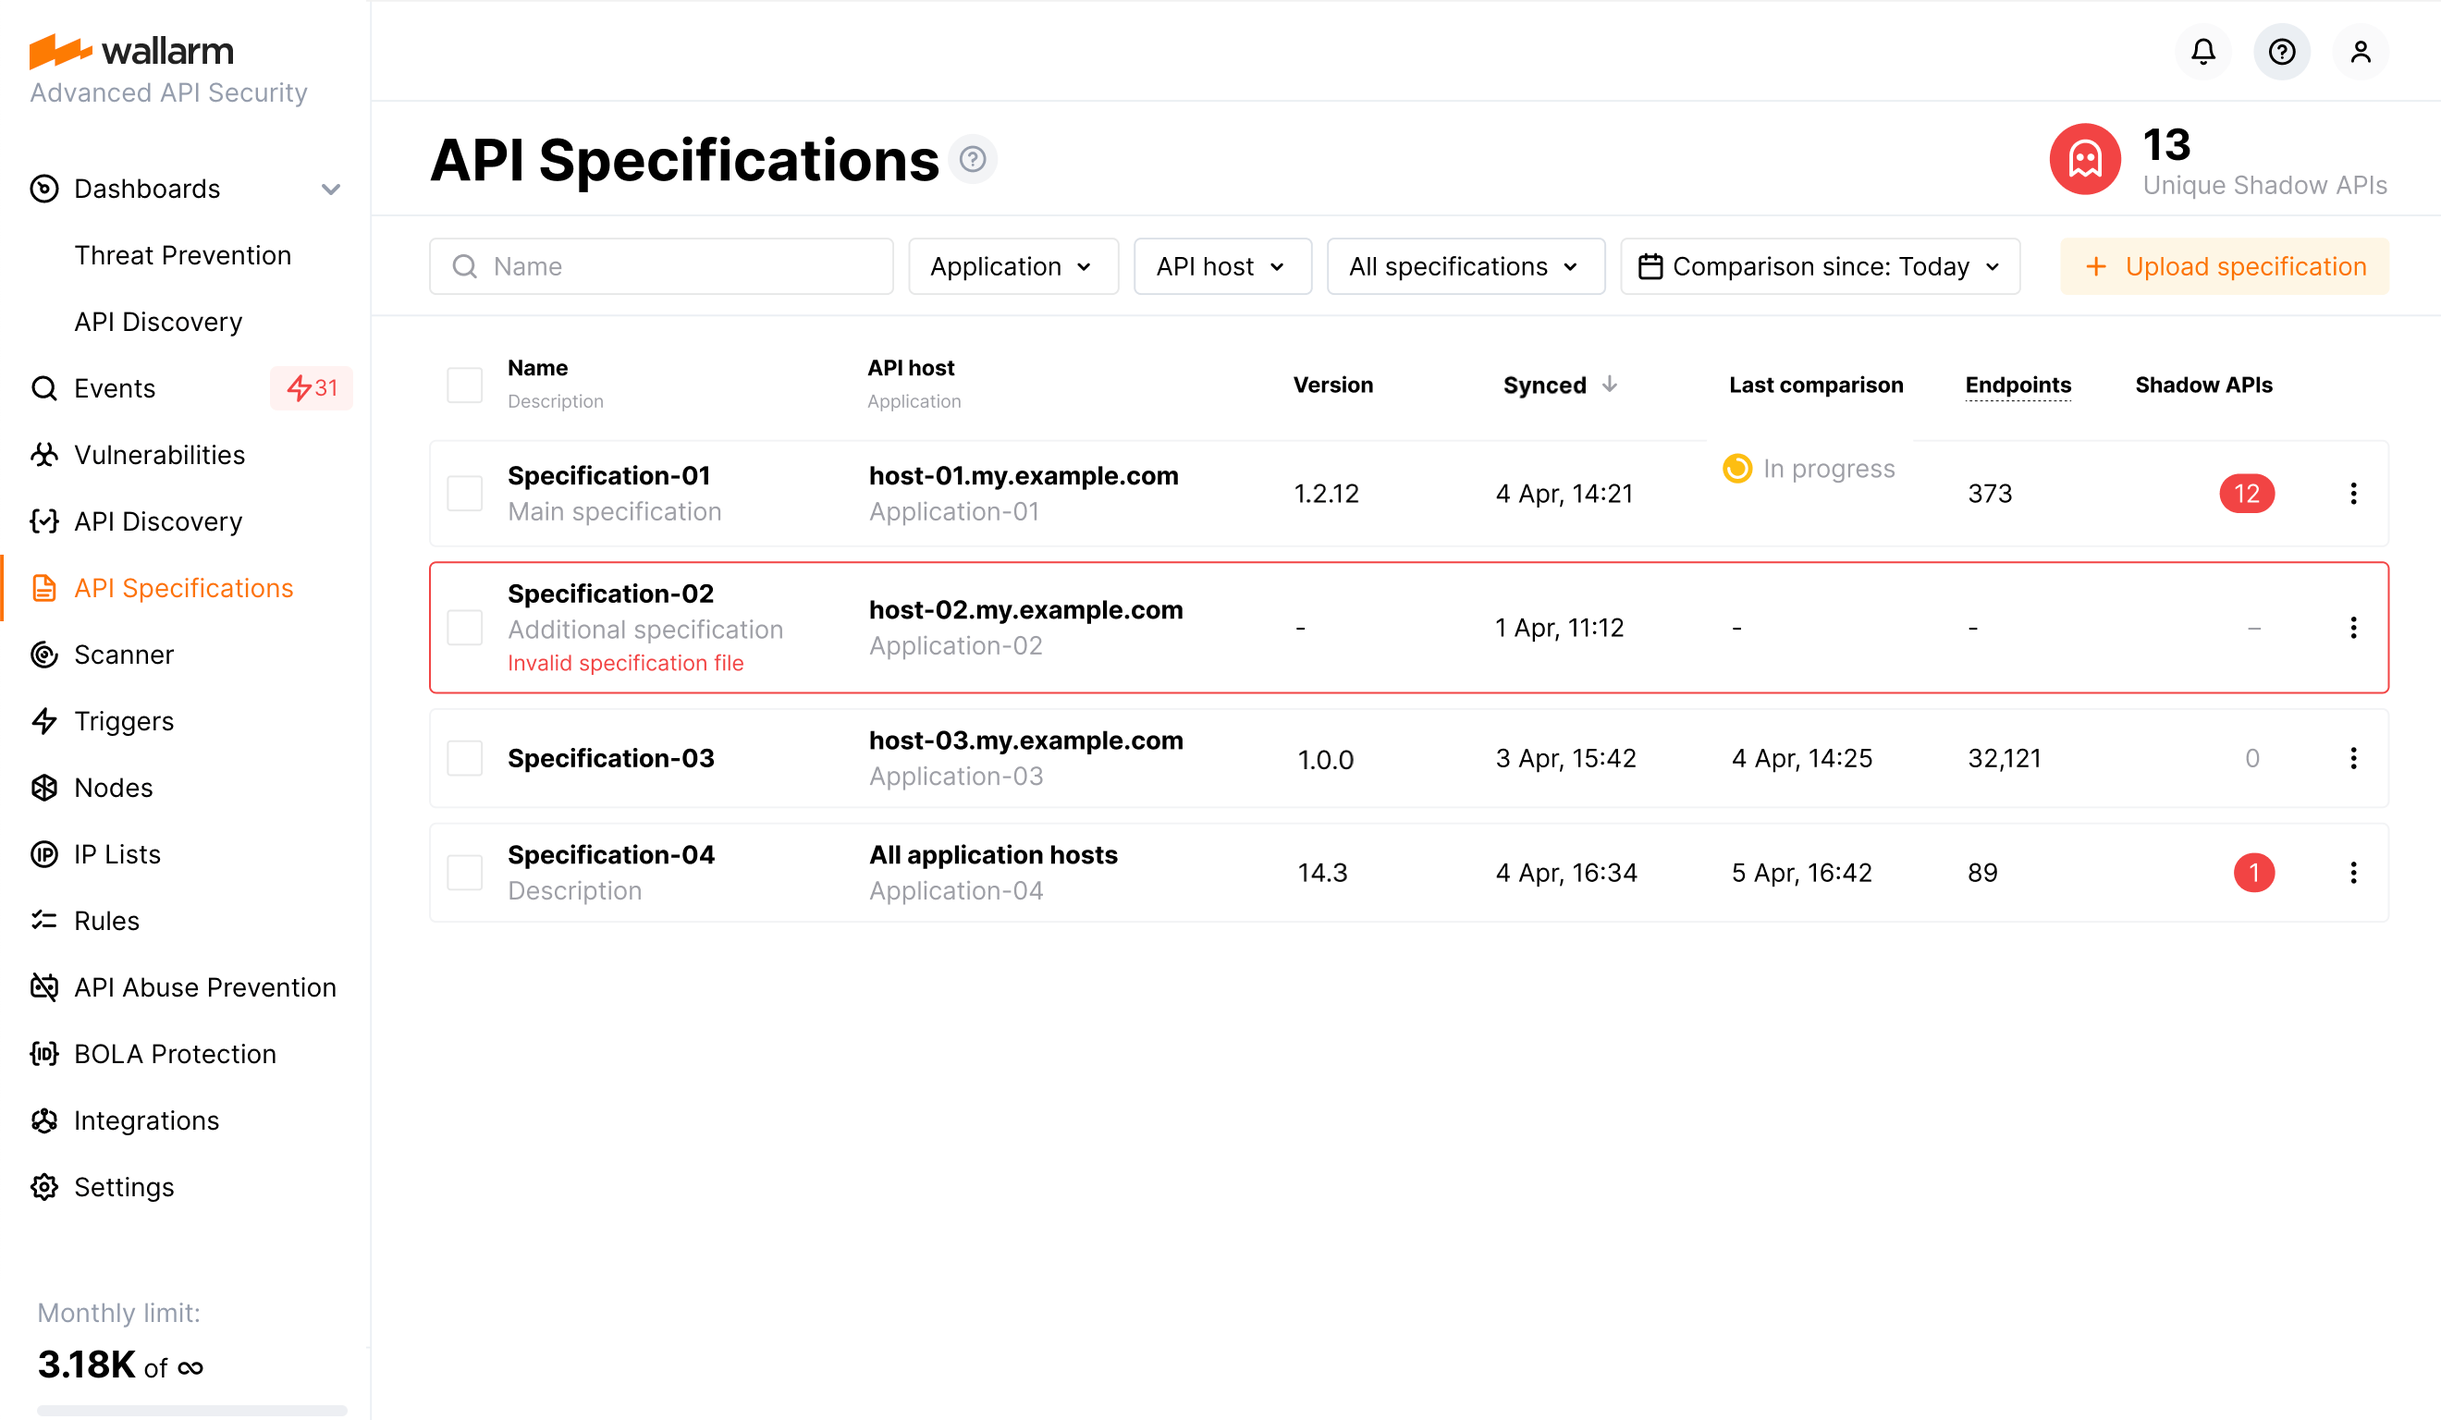
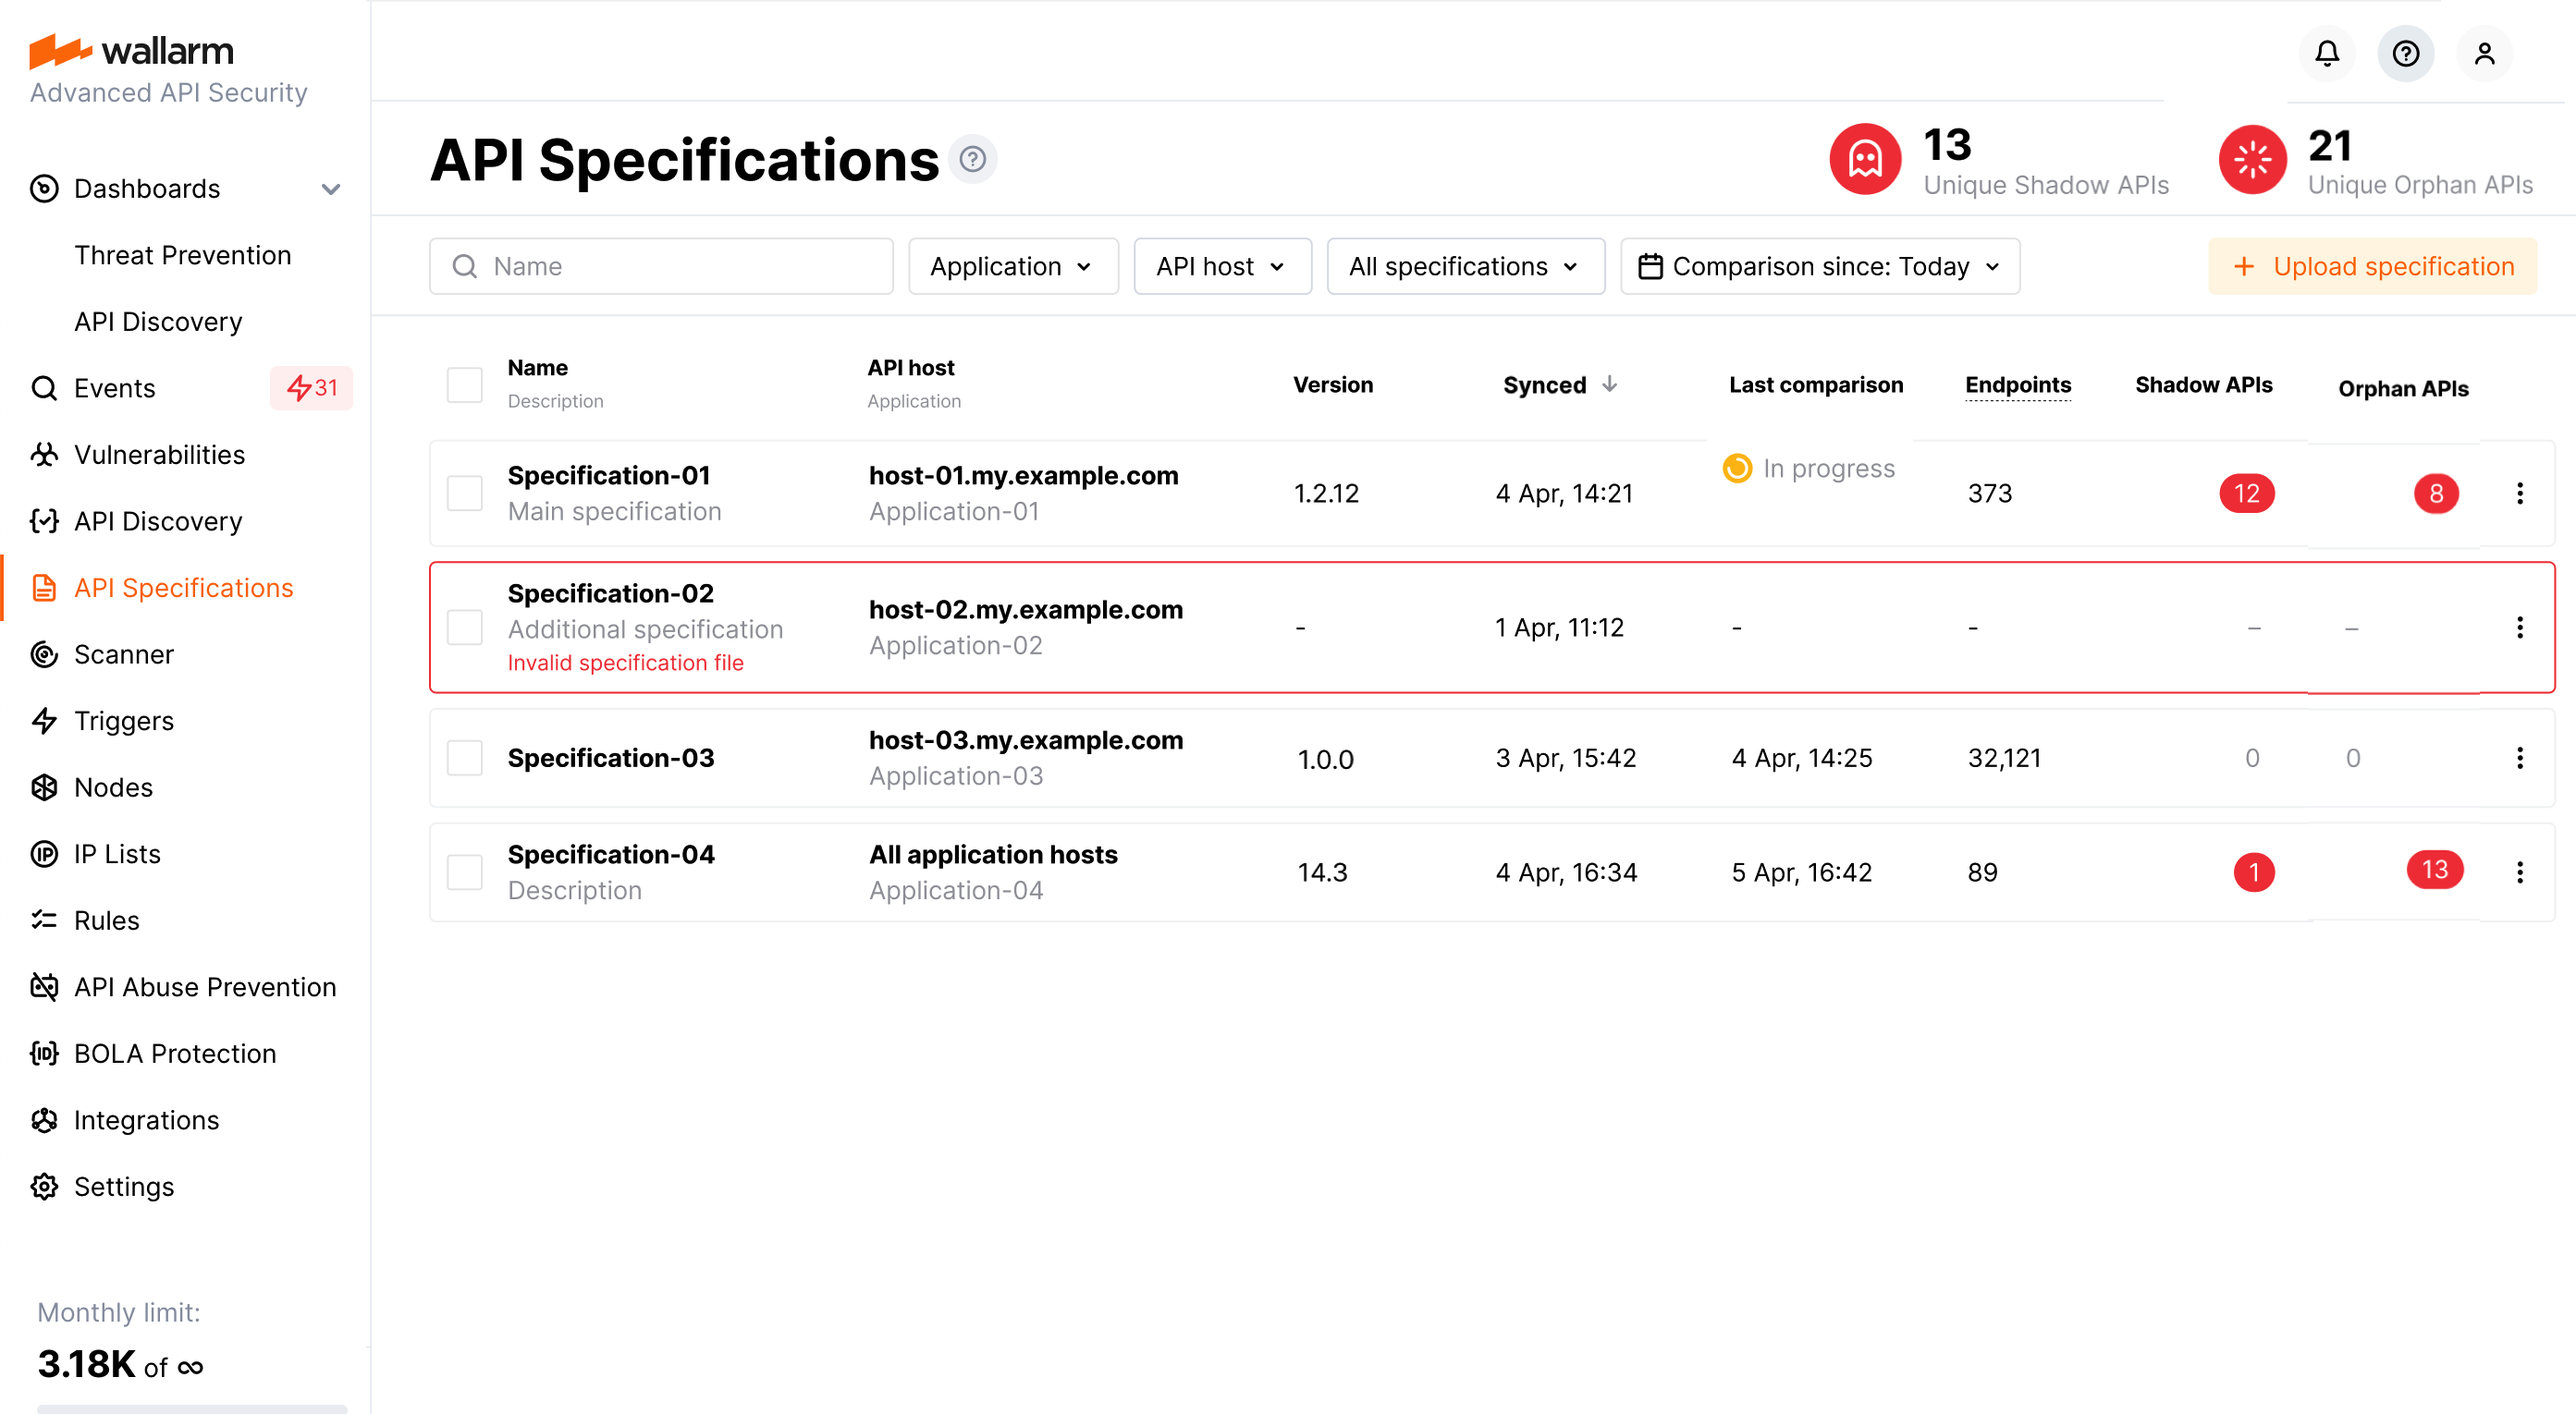
DOCS-2192 Orphan APIs

diff --git a/docs/latest/about-wallarm/api-discovery.md b/docs/latest/about-wallarm/api-discovery.md
@@ -20,7 +20,7 @@ Since the API Discovery module uses the real traffic as a data source, it helps 
 * View most attacked APIs for the last 7 days.
 * Filter out only attacked APIs, sort them by number of hits.
 * Filter APIs that consume and carry sensitive data.
-* Find [shadow APIs](#shadow-api) - endpoints discovered by Wallarm, but absent in your specification (missing endpoints).
+* Find [shadow and orphan APIs](#orphan-api).
 * [Download](../user-guides/api-discovery.md#download-openapi-specification-oas-of-your-api-inventory) discovered endpoints as specification in the OpenAPI v3 format and compare with your own API specifications to find endpoints presented in your specifications but not discovered by Wallarm (endpoints that are not in use, also known as "Zombie API").
 * [Track changes](#tracking-changes-in-api) in API that took place within the selected period of time.
 * Quickly [create rules](../user-guides/api-discovery.md#api-inventory-and-rules) per any given API endpoint.
@@ -220,18 +220,22 @@ Each protected API endpoint will be highlighted with the corresponding icon in t
 
 You can filter API endpoints by the BOLA auto protection state. The corresponding parameter is available under the **Others** filter.
 
-## Shadow API
+## Shadow and orphan APIs
 
-A shadow API refers to an undocumented API that exists within an organization's infrastructure without proper authorization or oversight. They put businesses at risk, as attackers can exploit them to gain access to critical systems, steal valuable data, or disrupt operations, further compounded by the fact that APIs often act as gatekeepers to critical data and that a range of OWASP API vulnerabilities can be exploited to bypass API security.
+A **shadow API** refers to an undocumented API that exists within an organization's infrastructure without proper authorization or oversight. They put businesses at risk, as attackers can exploit them to gain access to critical systems, steal valuable data, or disrupt operations, further compounded by the fact that APIs often act as gatekeepers to critical data and that a range of OWASP API vulnerabilities can be exploited to bypass API security.
 
-The API Discovery module automatically uncovers shadow APIs by comparing the discovered API inventory with customers' provided specifications. You upload your API specifications in the [**API Specifications**](../user-guides/api-specifications.md) section and the module automatically highlights endpoints discovered by API Discovery, but absent in your uploaded specification.
+An **orphan API** refers to a documented API that does not receive traffic. This may be a sign of problem with application logic or with traffic checking settings.
 
-![!API Discovery - highlighting and filtering shadow API](../images/about-wallarm-waf/api-discovery/api-discovery-highlight-shadow.png)
+The API Discovery module automatically uncovers shadow and orphan APIs by comparing the discovered API inventory with customers' provided specifications. You upload your API specifications in the [**API Specifications**](../user-guides/api-specifications.md) section and the module automatically highlights shadow and orphan endpoints.
 
-* [Learn how to upload specifications for comparison to find shadow APIs →](../user-guides/api-specifications.md#revealing-shadow-api)
-* [Learn how to display found shadow API in the API Discovery section →](../user-guides/api-discovery.md#displaying-shadow-api)
+![!API Discovery - highlighting and filtering shadow API](../images/about-wallarm-waf/api-discovery/api-discovery-highlight-shadow-orphan.png)
+
+* [Learn how to upload specifications for comparison to find shadow and orphan APIs →](../user-guides/api-specifications.md#revealing-shadow-and-orphan-api)
+* [Learn how to display found shadow and orphan API in the API Discovery section →](../user-guides/api-discovery.md#displaying-shadow-api)
 
 As you find shadow APIs with Wallarm, you can update your specifications to include missing endpoints and further perform monitoring and security activities towards your API inventory in its full view.
+
+Found orphan APIs can be a reason to verify the applications' business logic and/or check the Wallarm traffic checking settings to understand whether traffic actually does not received or it is just not visible to the Wallarm node.
 
 ## Security of data uploaded to the Wallarm Cloud
 

diff --git a/docs/latest/user-guides/api-specifications.md b/docs/latest/user-guides/api-specifications.md
@@ -4,9 +4,9 @@ In the **API Specifications** section of the Wallarm Console UI, you can keep yo
 
 **Administrators** and **Global administrators** can add, remove and download specifications and change settings of shadow API detection. Users of other [roles](../user-guides/settings/users.md#user-roles) can only view the list of uploaded specifications.
 
-## Revealing shadow API
+## Revealing shadow and orphan API
 
-With [**API Discovery**](../about-wallarm/api-discovery.md) in use, your API specifications uploaded at the **API Specifications** section may be compared with what was automatically detected by API Discovery. As the result of this comparison, Wallarm [finds and shows **shadow APIs**](../about-wallarm/api-discovery.md#shadow-api) - endpoints discovered by Wallarm, but absent in your specification (missing endpoints).
+With [**API Discovery**](../about-wallarm/api-discovery.md) in use, your API specifications uploaded at the **API Specifications** section may be compared with what was automatically detected by API Discovery. As the result of this comparison, Wallarm [finds and shows **shadow** and **orphan** APIs](../about-wallarm/api-discovery.md#shadow-and-orphan-apis).
 
 To perform comparison:
 
@@ -21,13 +21,13 @@ To perform comparison:
     * From where to upload: your local machine or URL. For URLs, via the header fields you can specify a token for authentication.
     * Whether the comparison should be performed once after specification upload or every hour (the **Perform regular comparison** option is selected by default). Hourly comparison allows finding additional shadow APIs as API Discovery discovers more endpoints. Specification uploaded from URL is updated before each comparison.
 
-    ![!API Discovery - API Specifications - uploading API specification to find shadow API](../images/about-wallarm-waf/api-discovery/api-discovery-specification-upload.png)
+    ![!API Discovery - API Specifications - uploading API specification to find shadow and orphan API](../images/about-wallarm-waf/api-discovery/api-discovery-specification-upload.png)
 
     Note that you can re-start comparison at any moment manually via specification menu → **Restart comparison**.
 
 1. Start uploading.
 
-    As uploading is finished, the number of shadow APIs will be displayed for each specification in the list of **API Specifications** as well as the overall number of found unique shadow APIs. Also shadow APIs will be [displayed](api-discovery.md#displaying-shadow-api) in the **API Discovery** section.
+    As uploading is finished, the number of shadow and orphan APIs will be displayed for each specification in the list of **API Specifications** as well as the overall number of found unique shadow and orphan APIs. Also shadow and orphan APIs will be [displayed](api-discovery.md#displaying-shadow-and-orphan-api) in the **API Discovery** section.
 
     ![!API Specifications section](../images/about-wallarm-waf/api-discovery/api-discovery-specifications.png)
 

diff --git a/docs/latest/user-guides/api-discovery.md b/docs/latest/user-guides/api-discovery.md
@@ -154,17 +154,17 @@ You can quickly create a new [custom rule](../user-guides/rules/intro.md) from a
 
 ![!Create rule from endpoint](../images/about-wallarm-waf/api-discovery/endpoint-create-rule.png)
 
-## Displaying shadow API
+## Displaying shadow and orphan API
 
-The **API Discovery** module automatically uncovers shadow APIs by comparing the discovered API inventory with [customers' provided specifications](../user-guides/api-specifications.md). To display [shadow APIs](../about-wallarm/api-discovery.md#shadow-api) among endpoints discovered by Wallarm:
+The **API Discovery** module automatically uncovers shadow and orphan APIs by comparing the actual registered traffic with the [customers' provided specifications](../user-guides/api-specifications.md). To display [shadow and orphan APIs](../about-wallarm/api-discovery.md#shadow-and-orphan-apis) among endpoints discovered by Wallarm:
 
-* Use the **Compare to...** filter to select specification comparisons - only for them the shadow APIs will be highlighted by the special mark in the **Issues** column.
+* Use the **Compare to...** filter to select specification comparisons - only for them the shadow and orphan APIs will be highlighted by the special marks in the **Issues** column.
 
-    ![!API Discovery - highlighting and filtering shadow API](../images/about-wallarm-waf/api-discovery/api-discovery-highlight-shadow.png)
+    ![!API Discovery - highlighting and filtering shadow API](../images/about-wallarm-waf/api-discovery/api-discovery-highlight-shadow-orphan.png)
 
-* Use the **Other → Shadow API** filter to see only shadow APIs related to the selected comparisons and filter out the remaining endpoints.
+* Use the **Other** → **Shadow API** and **Orphan API** filters to see only shadow and orphan APIs related to the selected comparisons and filter out the remaining endpoints.
 
-In the details of the endpoint that was defined as Shadow API, the uploaded specifications in which this endpoint is absent are listed in the **Specification conflicts** section (there may be several).
+The endpoint is defined as shadow or orphan API as the result of the comparison of the actual traffic with some specifications (there may be several). They will be listed in the endpoint details, in the **Specification conflicts** section.
 
 Shadow APIs are also displayed among the riskiest endpoints at the [API Discovery Dashboard](../user-guides/dashboards/api-discovery.md).
 
